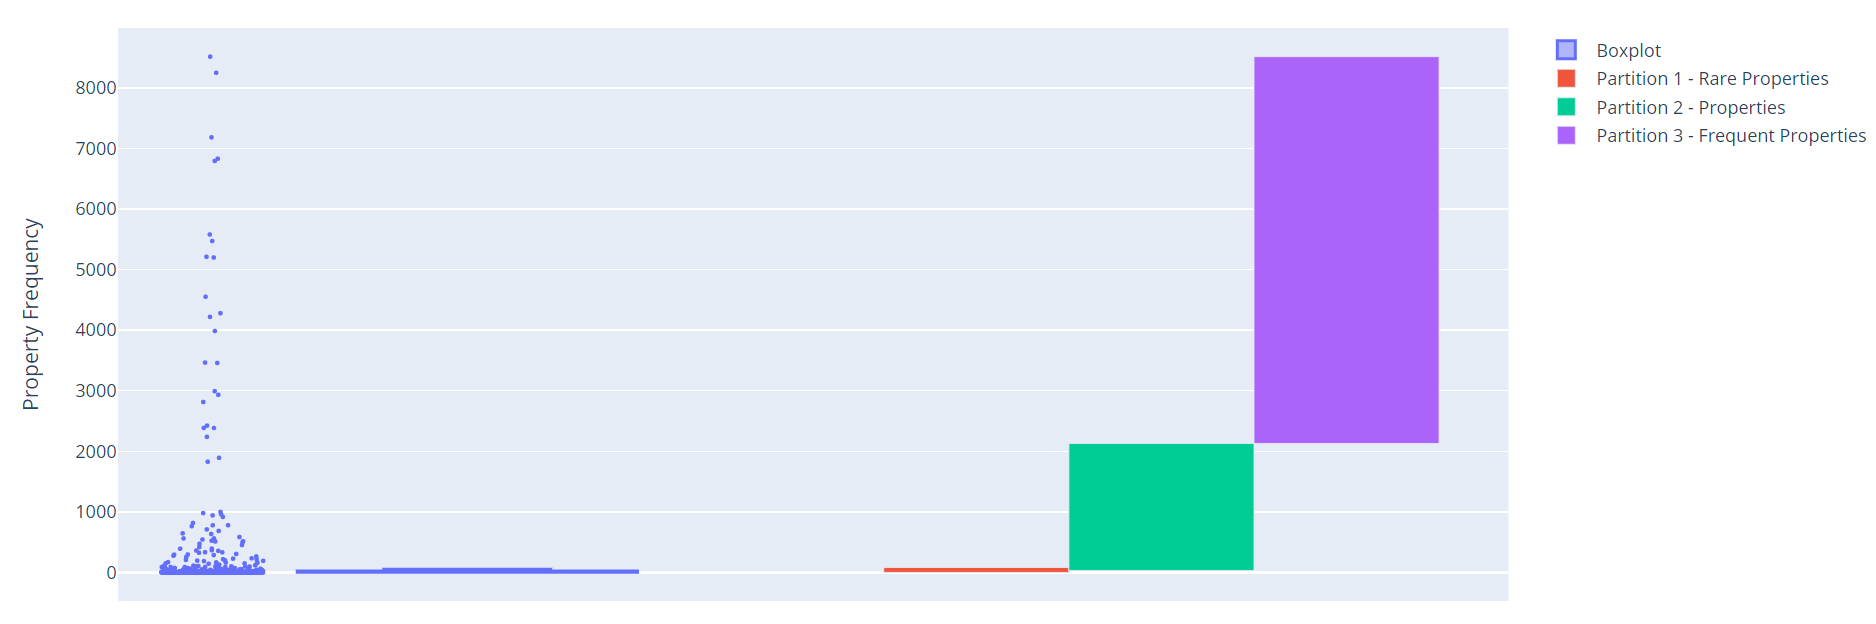
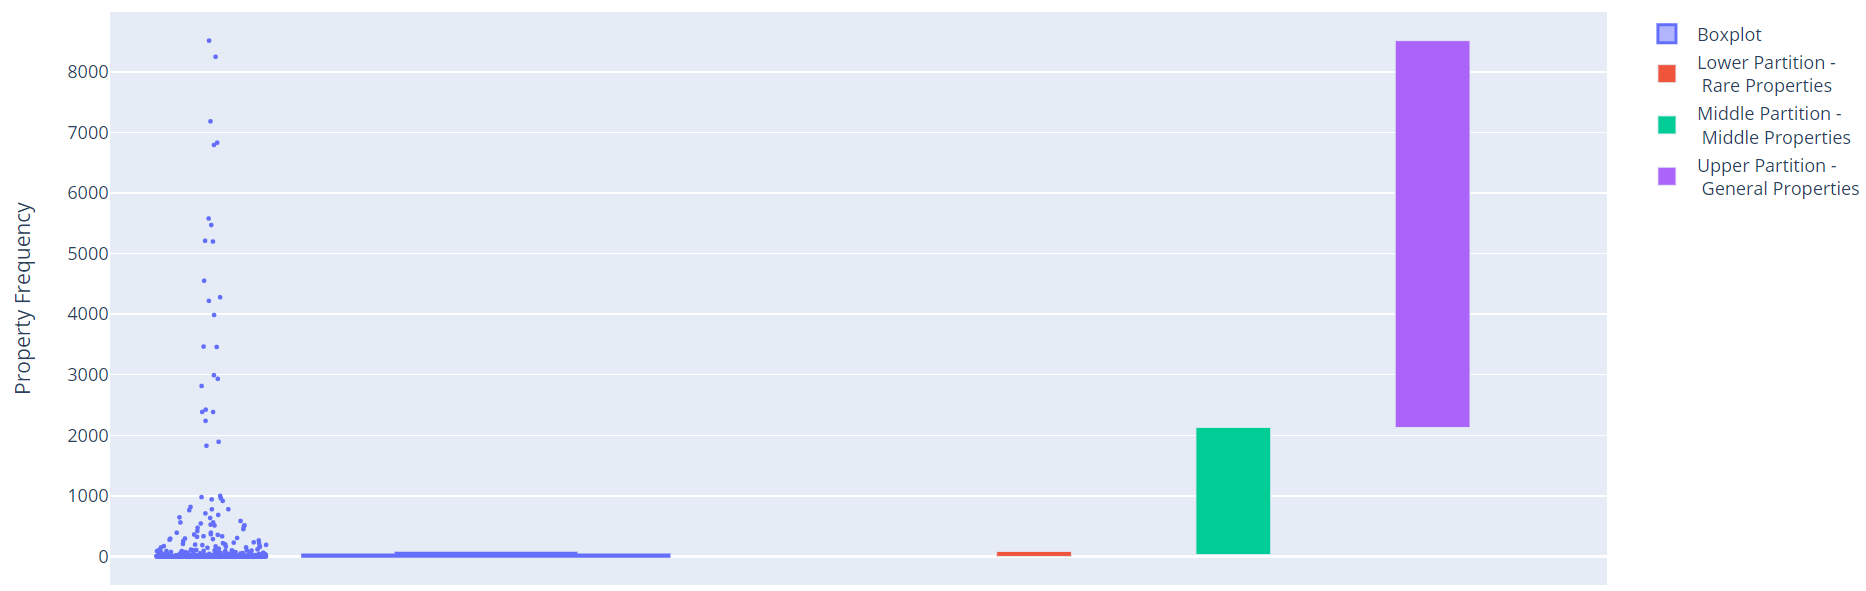
plots

diff --git a/FaerdigKode/DataPartiton.py b/FaerdigKode/DataPartiton.py
@@ -4,6 +4,7 @@ from extractPropertiesFromNDJSON import extractProperties, replacePcodesWithPlab
 from PropertyDistUni import replacePcodesWithPlabels_df
 from mlxtend.preprocessing import TransactionEncoder
 import plotly.graph_objects as go
+from plotly.subplots import make_subplots
 from pathlib import Path
 import pandas as pd
 
@@ -125,6 +126,7 @@ def removeRulesWithId(rule_df):
             amount_of_dropped_rules += 1
 
     print('A total amount of {} rules have been dropped'.format(amount_of_dropped_rules))
+    print('The amount of rules are now {0}'.format(len(rule_df)))
 
     return rule_df
 
@@ -146,9 +148,9 @@ if __name__ == '__main__':
         fig.add_trace(go.Box(y=property_count_df_without_labels['Frequency'], boxpoints='all', marker_size=3,
                              jitter=0.3, name='Boxplot'))
 
-        fig.add_trace(go.Bar(x=[0.2], y=[81], width=0.1, base=0, name='Lower Partition - Rare Properties'))
-        fig.add_trace(go.Bar(x=[0.2], y=[2098], width=0.1, base=31, name='Middle Partition - Properties'))
-        fig.add_trace(go.Bar(x=[0.2], y=[6386], width=0.1, base=2129, name='Upper Partition - General Properties'))
+        fig.add_trace(go.Bar(x=[0.2], y=[81], width=0.1, base=0, name='Lower Partition - <br> Rare Properties'))
+        fig.add_trace(go.Bar(x=[0.2], y=[2098], width=0.1, base=31, name='Middle Partition - <br> Middle Properties'))
+        fig.add_trace(go.Bar(x=[0.2], y=[6386], width=0.1, base=2129, name='Upper Partition - <br> General Properties'))
 
         fig.update_layout(
             yaxis_title='Property Frequency',
@@ -157,20 +159,24 @@ if __name__ == '__main__':
 
         fig.show()
 
-        fig2 = go.Figure()
+        fig2 = make_subplots(rows=1, cols=2)
         fig2.add_trace(go.Box(y=property_count_df_with_labels['Frequency'], boxpoints='all', marker_size=3,
-                       jitter=0.3, name='Boxplot'))
-        fig2.update_layout(xaxis_title='Property Frequency', xaxis_visible=False, xaxis_showticklabels=False)
-        #fig2.show()
+                       jitter=0.3, name='No zoom'), row=1, col=1)
+        fig2.add_trace(go.Box(y=property_count_df_with_labels['Frequency'], boxpoints='all', marker_size=3,
+                              jitter=0.3, name='Zoomed in'), row=1, col=2)
+        fig2.update_yaxes(title_text='Property Frequency',
+                          row=1, col=1)
+
+        fig2.show()
 
 
     makeBoxPlot()
     
-    #upper_properties = splitBooleanDF(property_list, "upper")
-    middle_properties = splitBooleanDF(property_list, "middle")
-    lower_properties = splitBooleanDF(property_list, "lower")
-
-    #frequent_items_upper = fpgrowth(upper_properties, min_support=0.25, use_colnames=True)
+    # upper_properties = splitBooleanDF(property_list, "upper")
+    # middle_properties = splitBooleanDF(property_list, "middle")
+    # lower_properties = splitBooleanDF(property_list, "lower")
+    #
+    # frequent_items_upper = fpgrowth(upper_properties, min_support=0.25, use_colnames=True)
     # frequent_items_middle = fpgrowth(middle_properties, min_support=0.006, use_colnames=True)
     # frequent_items_lower = fpgrowth(lower_properties, min_support=0.0003, use_colnames=True)
     #
@@ -185,3 +191,5 @@ if __name__ == '__main__':
     #                             (middle_rules['leverage'] > 0)]
     #
     # middle_rules_without_id = removeRulesWithId(middle_rules)
+    # #middle_rules_without_id = middle_rules_without_id.sort_values(by='antecedents', key=lambda x: x.str.len())
+    # middle_rules_without_id = middle_rules_without_id.sort_values(by='leverage', ascending=False)
